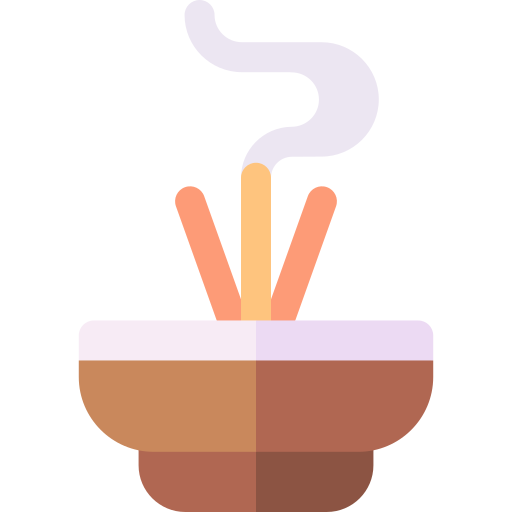
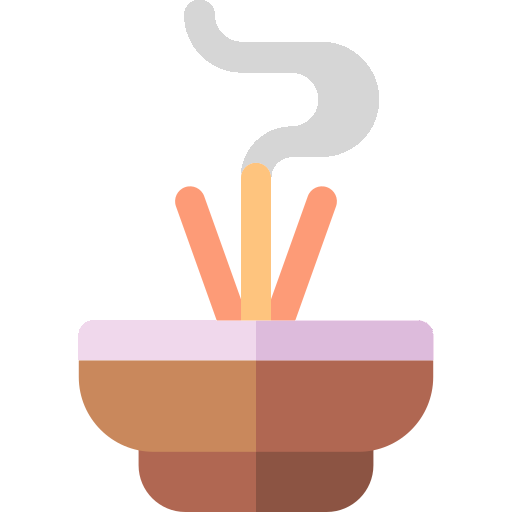
add: replace image for lucky draw button with new kau_chim.png

Changed region(s): [[0.3438, 0.0, 0.75, 0.3438], [0.5, 0.625, 0.875, 0.7188]]

diff --git a/lib/page/lucky_draw/ui/welcome_page.dart b/lib/page/lucky_draw/ui/welcome_page.dart
@@ -48,7 +48,7 @@ class _WelcomePageState extends State<WelcomePage> {
               _button(
                 title: '抽籤',
                 subtitle: '尋求數位神諭',
-                imagePath: 'assets/image/jiaobei.png',
+                imagePath: 'assets/image/kau_chim.png',
                 onPressed: () => Get.toNamed('/lucky_draw/drawing'),
               ),
               _button(
